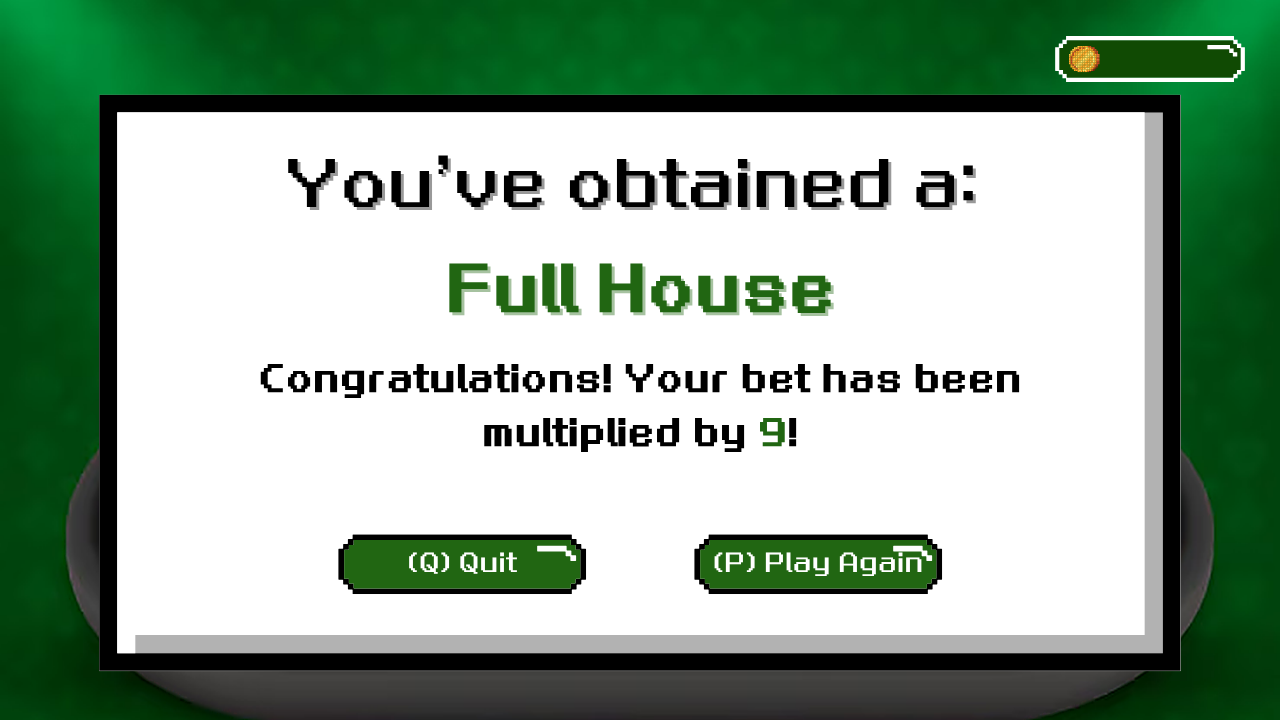
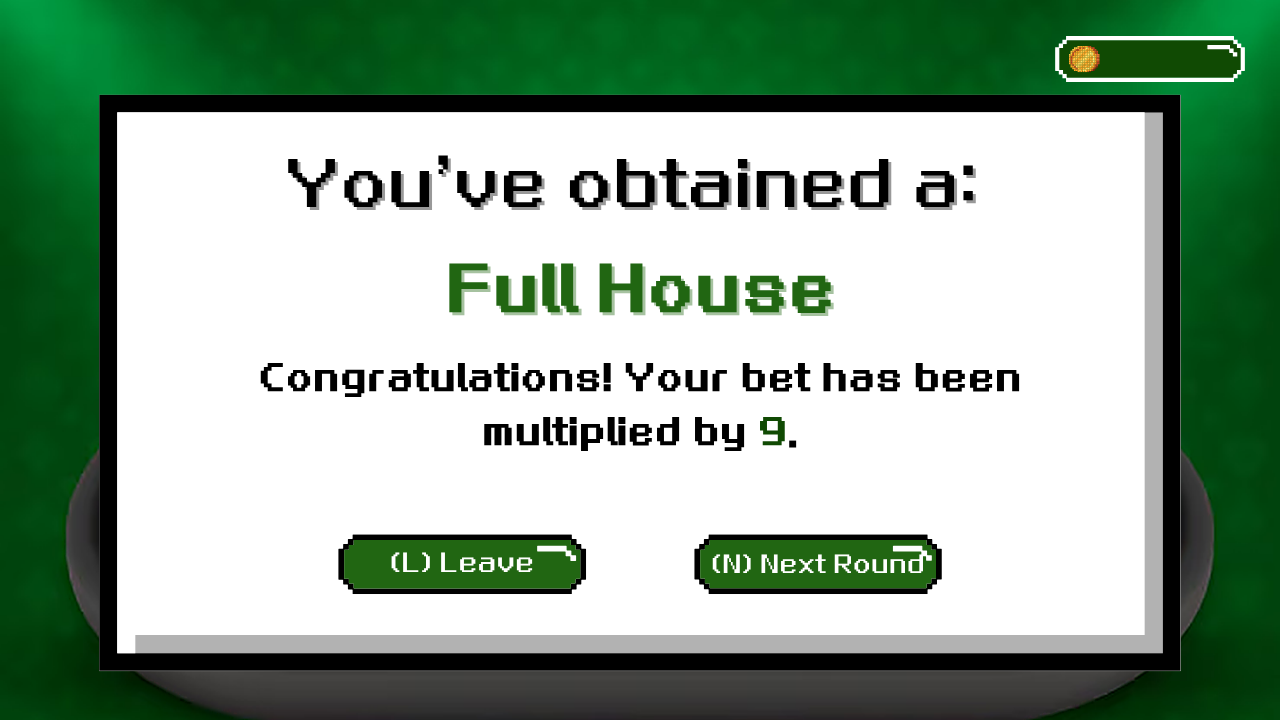
changed letters corresponding to buttons

diff --git a/CPTtools.java b/CPTtools.java
@@ -226,10 +226,10 @@ public class CPTtools{
 	}
 	
 	public static int[][] selectcards(int intHand[][], String strCards[][], Console con){
-		char chrChoice = ' '; 
+		char chrChoice = 'a'; 
 		int intChoice;
 		
-		while(chrChoice != 'n'){
+		while(chrChoice != ' '){
 			chrChoice = con.getChar();
 			if(chrChoice == '1'){
 				BufferedImage cardselect1 = con.loadImage("cardselect1.png");
@@ -284,7 +284,8 @@ public class CPTtools{
 		boolean bln3ofaKind = false; 
 		boolean blnFullHouse = false; 
 		boolean bln2ofaKind = false; 
-		boolean blnHighCard = false; 
+		boolean blnJacksorBetter = false; 
+		boolean blnTwoPair = false; 
 		
 		//Bubble sort cards by number!!
 		for(intCount1 = 0; intCount1 < 5-1; intCount1++){
@@ -323,11 +324,11 @@ public class CPTtools{
 		if((intHand[0][0] == intHand[1][0] && intHand[1][0] == intHand[2][0] && intHand[3][0] == intHand[4][0]) || (intHand[0][0] == intHand[1][0] && intHand[2][0] == intHand[3][0] && intHand[3][0] == intHand[4][0])){
 			blnFullHouse = true; 
 		}
-		if(intHand[0][0] == intHand[1][0] || intHand[1][0] == intHand[2][0] || intHand[2][0] == intHand[3][0] || intHand[3][0] == intHand[4][0]){
-			bln2ofaKind = true; 
+		if((intHand[0][0] == intHand[1][0] && intHand[2][0] == intHand[3][0]) || (intHand[1][0] == intHand[2][0] && intHand[3][0] == intHand[4][0]) || (intHand[0][0] == intHand[1][0] && intHand[3][0] == intHand[4][0])){
+			blnTwoPair = true;
 		}
-		if(intHand[0][0] >= 11 || intHand[0][0] == 1 || intHand[1][0] >= 11 || intHand[1][0] == 1 || intHand[2][0] >= 11 || intHand[2][0] == 1 || intHand[3][0] >= 11 || intHand[3][0] == 1 || intHand[4][0] >= 11 || intHand[4][0] == 1){
-			blnHighCard = true; 
+		if((intHand[0][0] == intHand[1][0] && intHand[0][0] > 10 && intHand[1][0] > 10) || (intHand[1][0] == intHand[2][0] && intHand[1][0] > 10 && intHand[2][0] > 10) || (intHand[2][0] == intHand[3][0] && intHand[2][0] > 10 && intHand[3][0] > 10) || (intHand[3][0] == intHand[4][0] && intHand[3][0] > 10 && intHand[4][0] > 10) || (intHand[0][0] == intHand[1][0] && intHand[0][0] == 1 && intHand[1][0] == 1) || (intHand[1][0] == intHand[2][0] && intHand[1][0] == 1 && intHand[2][0] == 1) || (intHand[2][0] == intHand[3][0] && intHand[2][0] == 1 && intHand[3][0] == 1) || (intHand[3][0] == intHand[4][0] && intHand[3][0] == 1 && intHand[4][0] == 1)){
+			blnJacksorBetter = true; 
 		}
 		
 		BufferedImage royalflush = con.loadImage("royalflush.png");
@@ -338,7 +339,7 @@ public class CPTtools{
 		BufferedImage straight = con.loadImage("straight.png");
 		BufferedImage threeofakind = con.loadImage("threeofakind.png");
 		BufferedImage twopair = con.loadImage("twopair.png");
-		BufferedImage highcard = con.loadImage("highcard.png");
+		BufferedImage jacksorbetter = con.loadImage("jacksorbetter.png");
 		BufferedImage nothing = con.loadImage("nothing.png");
 		
 		con.clear();
@@ -371,12 +372,12 @@ public class CPTtools{
 			con.drawImage(threeofakind, 0, 0);
 			intBet = intBet * 3;
 			con.println(" ");
-		}else if(bln2ofaKind == true){
+		}else if(blnTwoPair == true){
 			con.drawImage(twopair, 0, 0);
 			intBet = intBet * 2;
 			con.println(" ");
-		}else if(blnHighCard == true){
-			con.drawImage(highcard, 0, 0);
+		}else if(blnJacksorBetter == true){
+			con.drawImage(jacksorbetter, 0, 0);
 			con.println(" ");
 		}else{
 			con.drawImage(nothing, 0, 0);
@@ -386,8 +387,69 @@ public class CPTtools{
 		intMoney = intMoney + intBet;
 		con.println(" ");
 		con.println("                                                                                            "+intMoney);
-		return intBet; 
+		return intMoney; 
 	}
 
-	
+	public static void leaderboard1(Console con){
+		con.clear();
+		BufferedImage imgLeaderboard = con.loadImage("leaderboard.png");
+		con.drawImage(imgLeaderboard, 0, 0);
+		con.println(" ");
+		
+		TextInputFile leaderboard = new TextInputFile("leaderboard.txt");
+		String strLeaderboard[][];
+		int intTemp; 
+		String strTemp1; 
+		String strTemp2; 
+		String strTemp; 
+		int intCountLine = 0;
+		int intCount;
+		int intCount2; 
+		
+		while(leaderboard.eof() == false){
+			strTemp = leaderboard.readLine();
+			intTemp = leaderboard.readInt();
+			intCountLine++; 
+		}
+		leaderboard.close();
+		strLeaderboard = new String[intCountLine][2];
+		leaderboard = new TextInputFile("leaderboard.txt");
+		
+		for(intCount = 0; intCount < intCountLine; intCount++){
+			strLeaderboard[intCount][0] = leaderboard.readLine();
+			strLeaderboard[intCount][1] = "" + leaderboard.readInt();
+		}
+		for(intCount2 = 0; intCount2 < (intCountLine - 1); intCount2++){
+			for(intCount = 0; intCount < (intCountLine - 1); intCount++){
+				if(Integer.parseInt(strLeaderboard[intCount][1]) < Integer.parseInt(strLeaderboard[intCount + 1][1])){
+					//column 1 - name
+					strTemp1 = strLeaderboard[intCount][0];
+					strLeaderboard[intCount][0] = strLeaderboard[intCount+1][0];
+					strLeaderboard[intCount+1][0] = strTemp1;
+					
+					//column 2 - score
+					strTemp2 = strLeaderboard[intCount][1]; 
+					strLeaderboard[intCount][1] = strLeaderboard[intCount+1][1];
+					strLeaderboard[intCount+1][1] = strTemp2;
+				}
+			}
+		}
+		
+		for(intCount = 0; intCount < 6; intCount++){
+			con.println(" ");
+		}
+		if(intCountLine >= 10){
+			for(intCount = 0; intCount< 10; intCount++){
+				con.println("                                              "+strLeaderboard[intCount][0]);
+				con.println("                                              "+strLeaderboard[intCount][1]);
+			}
+		}else{
+			for(intCount = 0; intCount < intCountLine; intCount++){
+				con.println("                                              "+strLeaderboard[intCount][0]);
+				con.println("                                              "+strLeaderboard[intCount][1]);
+			}
+		}
+		
+		
+	}
 }

diff --git a/CPTPokerMain.java b/CPTPokerMain.java
@@ -7,7 +7,7 @@ public class CPTPokerMain{
 		Console con = new Console("Poker - ICS3U1 CPT", 1280, 720);
 		CPTtools.mainmenu(con);
         
-        String strName;
+        String strName = "";
 		char chrChoice; 
 		int intMoney = 1000;
 		int intBet; 
@@ -17,10 +17,11 @@ public class CPTPokerMain{
 		int intHand[][];
 		String strCardTemp;
 		
+		
 		strCards = new String[52][3];
 		intHand = new int[5][2];
 		
-		chrChoice = ' ';
+		chrChoice = 'a';
 		while(chrChoice != 'q'){
 			chrChoice = con.getChar();
 			//Play Option
@@ -28,9 +29,14 @@ public class CPTPokerMain{
 				CPTtools.clear(con);
 				CPTtools.getname(con, intMoney);
 				strName = con.readLine();
-				CPTtools.printname(strName);
-				con.clear();
+				//CPTtools.printname(strName);
+				//con.clear();
 				intMoney = CPTtools.statitan(strName, intMoney);
+				BufferedImage imgNextButton = con.loadImage("nextbutton.png");
+				con.drawImage(imgNextButton, 0, 0);
+				con.println(" ");
+			}else if(chrChoice == 'n'){
+				con.clear();
 				CPTtools.getbet(con, intMoney);
 				intBet = con.readInt();
 				CPTtools.clear(con);
@@ -45,8 +51,8 @@ public class CPTPokerMain{
 				CPTtools.selectcards(intHand, strCards, con);
 				CPTtools.setup(con);
 				CPTtools.printcards(con, intHand);
-				con.sleep(3000);
-				intBet = CPTtools.calculatewin(intHand, intBet, con, intMoney);
+				con.sleep(2500);
+				intMoney = CPTtools.calculatewin(intHand, intBet, con, intMoney);
 				
 					
 			//Help Option
@@ -54,7 +60,7 @@ public class CPTPokerMain{
 				CPTtools.help(con);
 			//Leaderboard Option
 			}else if(chrChoice == 'l'){
-				CPTtools.leaderboard(con);
+				CPTtools.leaderboard1(con);
 			}else if(chrChoice == 'm'){
 				CPTtools.clear(con);
 				CPTtools.mainmenu(con);
@@ -62,6 +68,11 @@ public class CPTPokerMain{
 				con.println(" ");
 			}
 		}
+		con.clear();
+		TextOutputFile leaderboard = new TextOutputFile("leaderboard.txt", true);
+		leaderboard.println(strName);
+		leaderboard.println(intMoney);
+		
 		CPTtools.quit(con);
 		
 		
